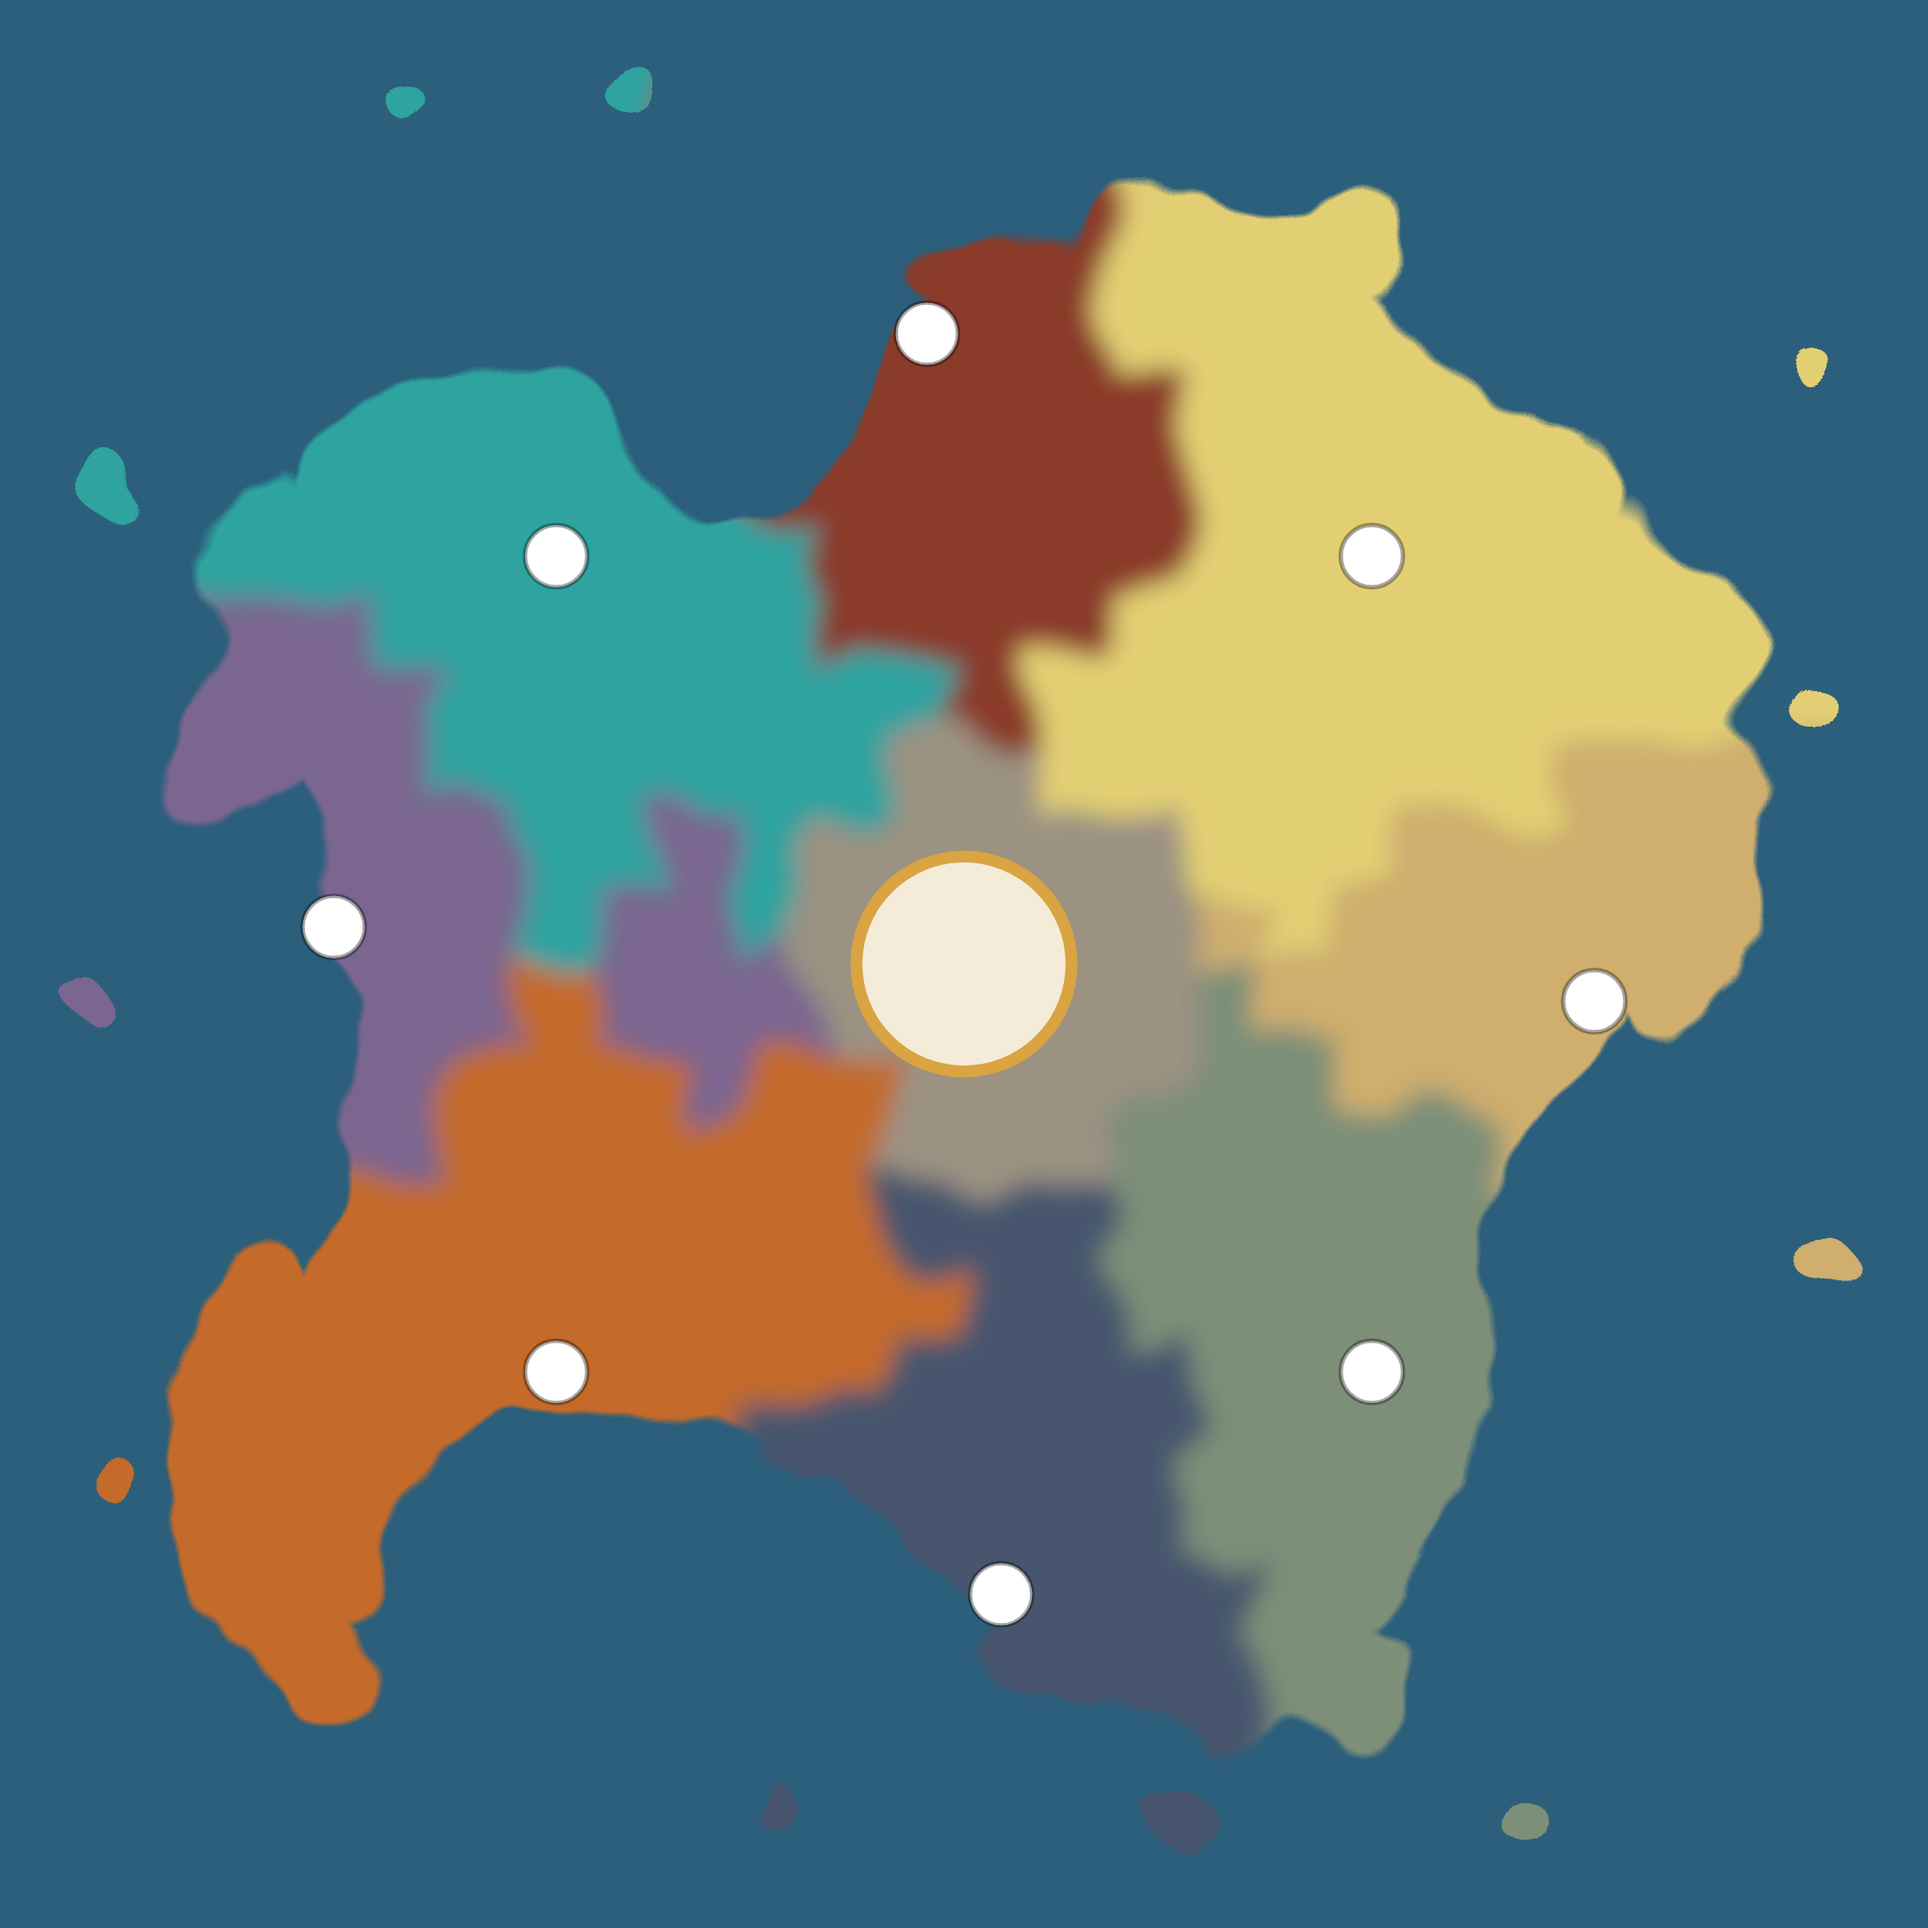
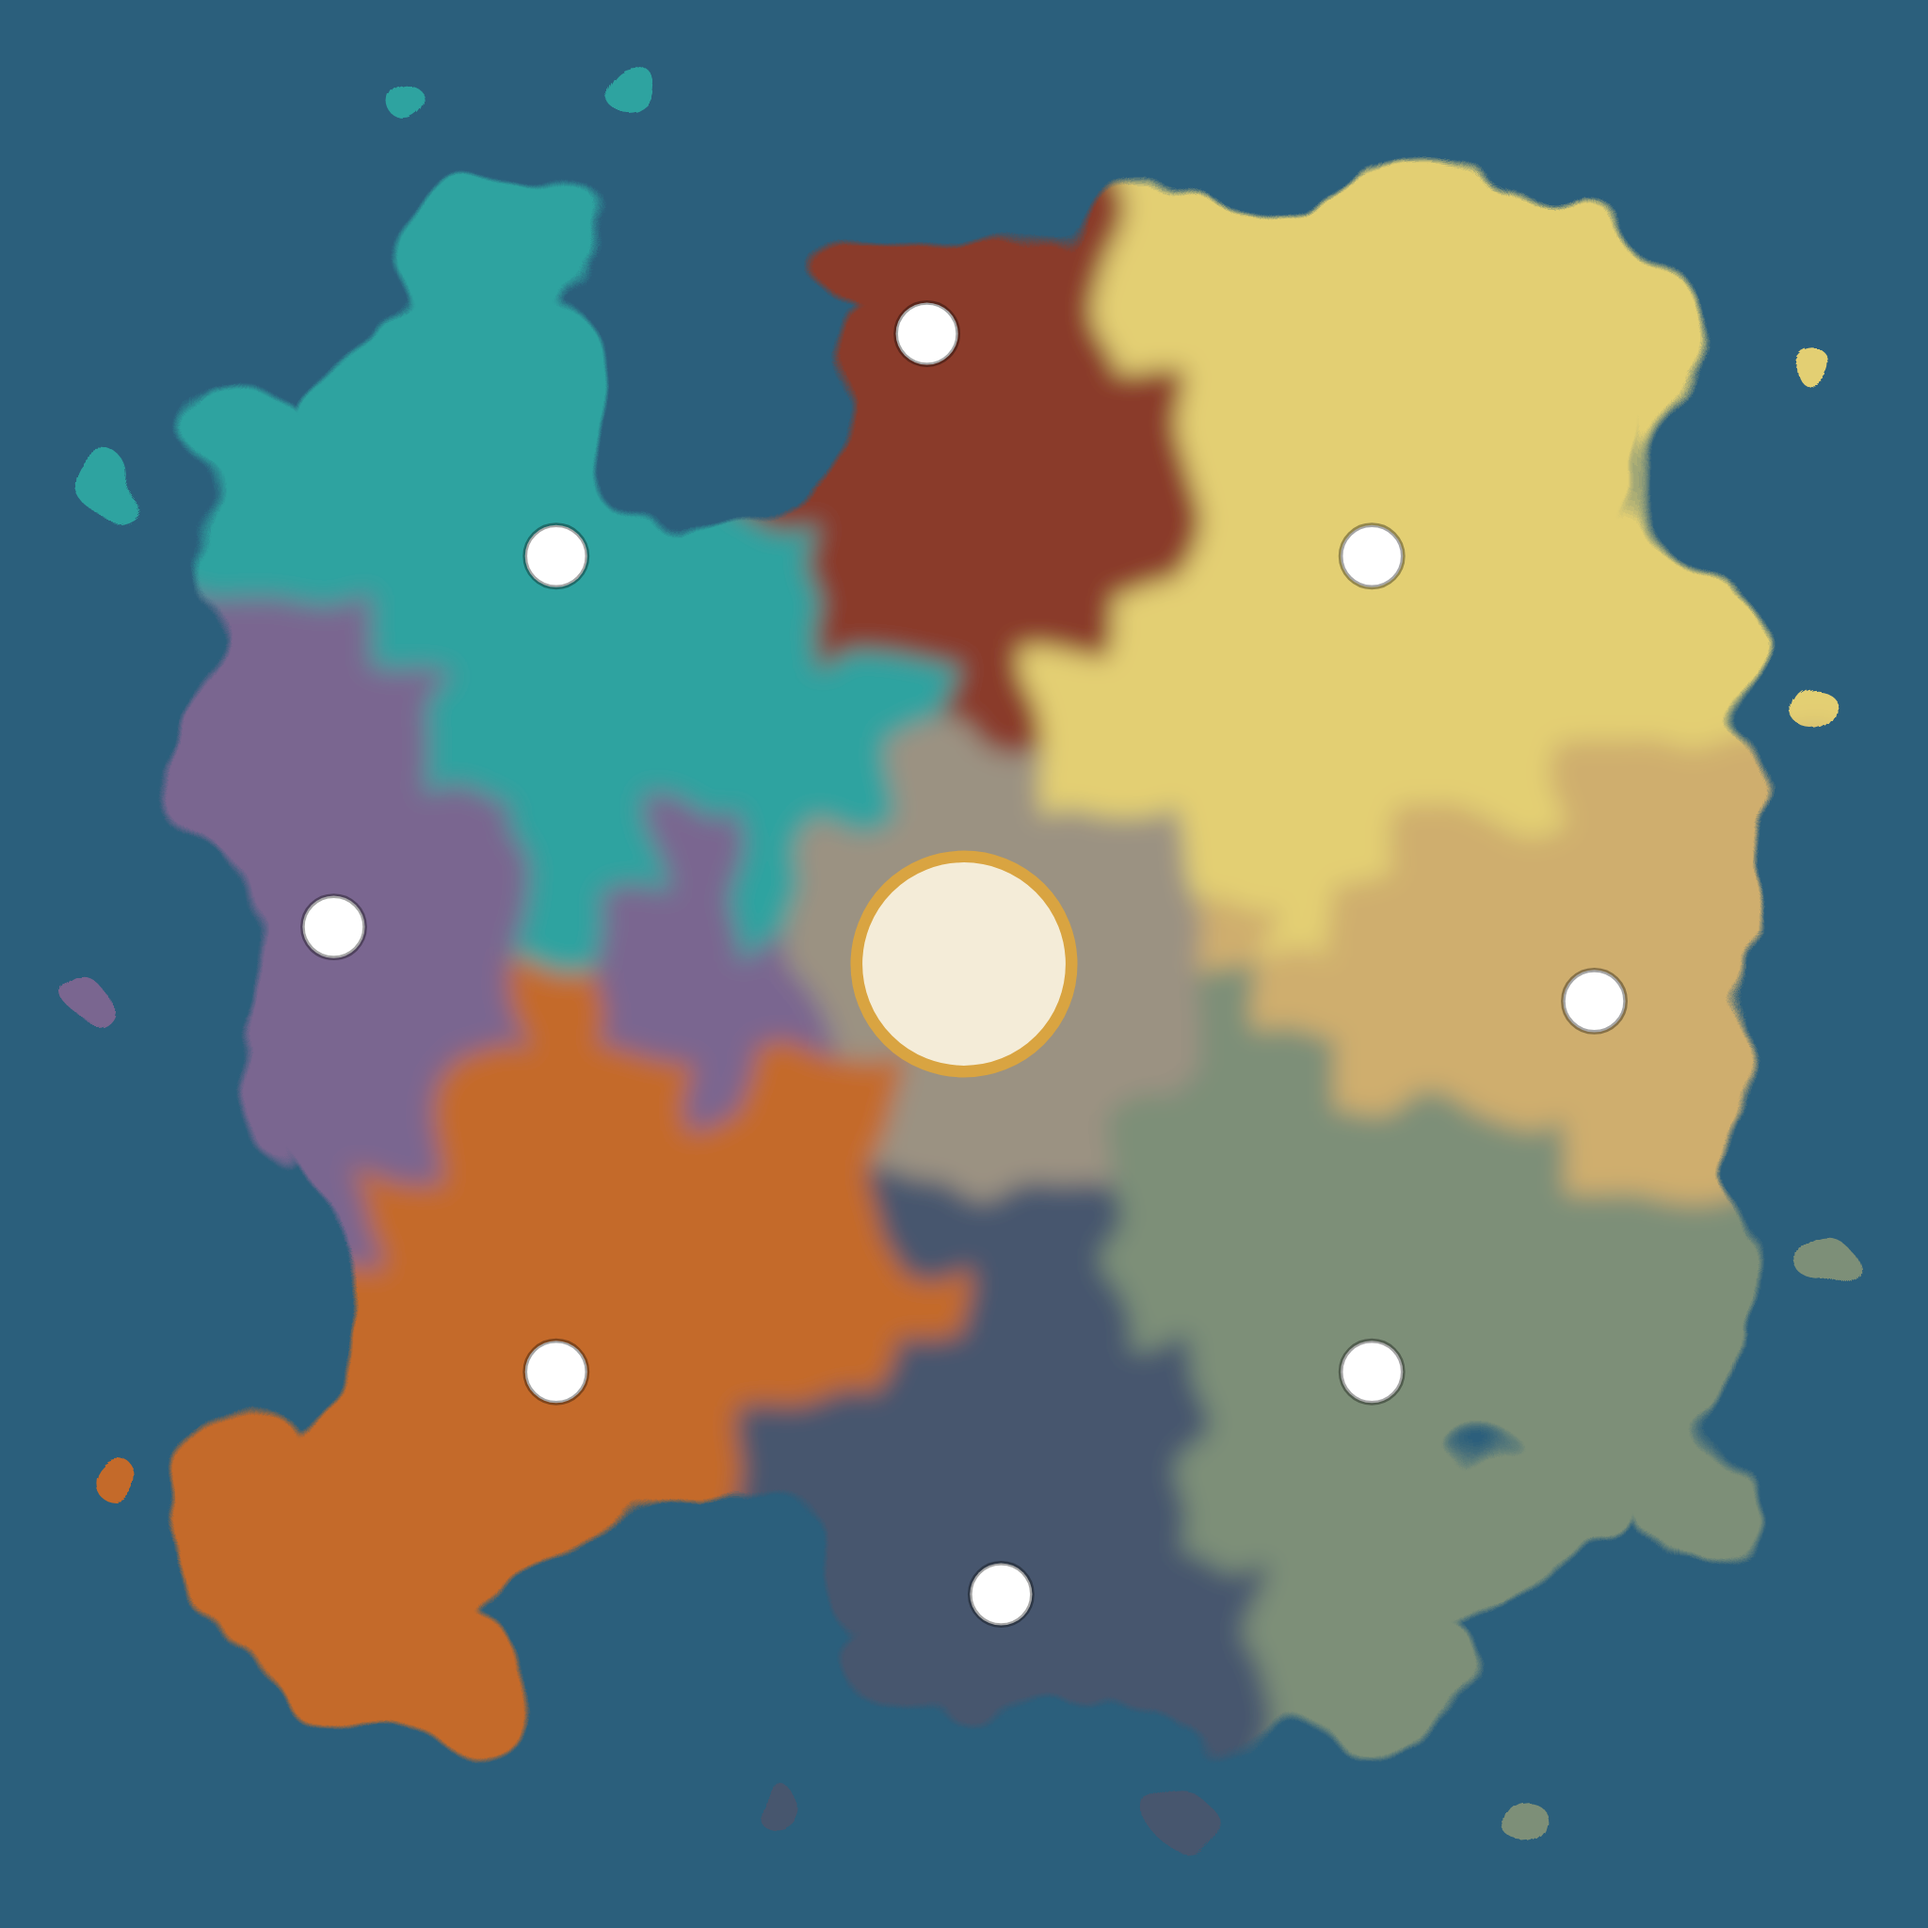
Use the new painted continent as the board
The latest painting follows the continent layout closely, so the rules
now fit the art: BOARD.land is read square by square from it (25 sea
squares: the north-western gulf, the south-western bay, a strip off the
west coast, the Skarragol fjord, the south-eastern corner; the shallow
Moa'olani lagoons stay walkable). Every seat keeps its distances.

The painting carries 4 squares of ocean on each side (imageMargin 4),
so the sea tint is off; the overview map shows the coast around the
board. The board guide is regenerated from the new land map.

Fixed a movement test that measured the shore after the move had
happened instead of from where it started.

Claude-Session: https://claude.ai/code/session_01YAnSxFxcnPAhQ8NFJcHZDX

diff --git a/src/config.ts b/src/config.ts
@@ -2,28 +2,29 @@
 
 export const BOARD_SIZE = 18;
 // The continent: '.' is land, '~' is sea (row by row, north at the top). Sea squares can't be entered;
-// moves go around them. The coastline is drawn in docs/art/board-guide-labelled.png. Every seat keeps its distance to the Throne and to every other seat.
+// moves go around them. Read from the painted board (public/art/board.webp): its deep-water squares are sea;
+// the shallow Moa'olani lagoons are walkable. Every seat keeps its distance to the Throne and to every other seat.
 // An object so balance experiments can swap the map (null = all land).
 export const BOARD: { land: string[] | null } = {
   land: [
-    '~~~~~~~~.......~~~',
-    '~...~~~~........~~',
-    '.....~~...........',
+    '~...~~~...........',
+    '....~~~~..........',
+    '....~~~...........',
+    '..................',
+    '..................',
+    '..................',
+    '..................',
+    '..................',
     '..................',
     '..................',
     '..................',
     '..................',
     '~.................',
-    '..................',
     '~.................',
-    '~................~',
-    '~...............~~',
-    '~...............~~',
-    '................~~',
-    '................~~',
-    '..~~~~..........~~',
-    '.~~~~~~~.......~~~',
-    '.~~~~~~~~......~~~',
+    '~.................',
+    '...............~~.',
+    '....~~~...........',
+    '...~~~~.........~~',
   ],
 };
 export const HAND_SIZE = 3;

diff --git a/tests/rules.test.ts b/tests/rules.test.ts
@@ -78,13 +78,15 @@ describe('movement (Section 4)', () => {
     const walk = walkDistances(p.pos!);
     expect(squares.every(q => walk.get(key(q))! <= 4)).toBe(true);
     // Straight moves stop at the shore: every square along each offered line is land, and the next isn't.
+    const from = { ...p.pos! };
     drive(g.moveStraight(p, 3, { full: true }), d => { seen = d; return 0; });
     expect(seen!.options.length).toBeGreaterThan(0);
     for (const o of seen!.options) {
       const { d, n } = o.value as { d: 'north' | 'south' | 'east' | 'west'; n: number };
-      for (let i = 1; i <= n; i++) expect(inBoard(step(p.pos!, d, i))).toBe(true);
-      if (n < 3) expect(inBoard(step(p.pos!, d, n + 1))).toBe(false);
+      for (let i = 1; i <= n; i++) expect(inBoard(step(from, d, i))).toBe(true);
+      if (n < 3) expect(inBoard(step(from, d, n + 1))).toBe(false);
     }
+    expect(seen!.options.some(o => (o.value as { n: number }).n < 3)).toBe(true);   // the shore cuts one line short
   });
   it('the sea leaves every seat on land, as far from the Throne and from each other as before', () => {
     const homes = Object.values(newGame(8).content.houses).map(h => h.home);

diff --git a/src/ui/Board.tsx b/src/ui/Board.tsx
@@ -23,8 +23,8 @@ function BoardView({ game, highlights, onPick, focus, zoom }: Props) {
   const size = BOARD_SIZE * C;
   const tiles = Object.values(game.content.houses);
   const art = BOARD_ART.image;
-  // With a painting that includes ocean, show a little of the coast around the board.
-  const view = art ? Math.min(BOARD_ART.imageMargin, 1.2) * C : 0;
+  // With a painting that includes ocean, show the coast around the board too.
+  const view = art ? Math.min(BOARD_ART.imageMargin, 3) * C : 0;
   const living = s.players.filter(p => p.pos);
   const byKey = new Map<string, number[]>();
   for (const p of living) {

diff --git a/src/assets.config.ts b/src/assets.config.ts
@@ -70,9 +70,9 @@ export const BOARD_ART = {
   image: '/art/board.webp' as string | undefined,
   // Squares of ocean the painting includes on each side of the 18 × 18 board (0 = the image is just the board;
   // paintings made from the current guide use 4).
-  imageMargin: 0,
+  imageMargin: 4,
   // Tint the sea squares over the painting (for a painting made before the continent had its bays).
-  tintSea: true,
+  tintSea: false,
   light: '#2a2026',
   dark: '#251c21',
   grid: 'rgba(0,0,0,.28)',

diff --git a/docs/rules-decisions.md b/docs/rules-decisions.md
@@ -21,9 +21,10 @@ differ, **this file wins**. Numbers in brackets refer to the question list.
 - **First player [4]:** random in solo; the host picks in multiplayer.
 
 ## The continent (changed after playtesting)
-- **The board has sea.** 61 of the 324 squares are sea, in a realistic coastline: a gulf in the north, a gulf beside a
-  long south-western peninsula, and the outer corners. Homeland borders are on land; their sizes follow the coast.
-  The land map is `BOARD.land` in `src/config.ts`, drawn in `docs/art/board-guide-labelled.png`.
+- **The board has sea.** The continent is the painted board; its deep water inside the grid is sea (25 of the 324
+  squares): the north-western gulf, the south-western bay, a strip off the west coast, the Skarragol fjord and the
+  south-eastern corner. The shallow Moa'olani lagoons are walkable. Homeland sizes follow the painting.
+  The land map is `BOARD.land` in `src/config.ts`, read square by square from the painting.
 - Sea squares can't be entered. Free moves count steps around the sea (a square 3 steps away by walking,
   not as the crow flies). Straight-line moves stop at the shore, as at the board edge. Bridge the Gap
   reaches any land square within 8 steps' walk.
